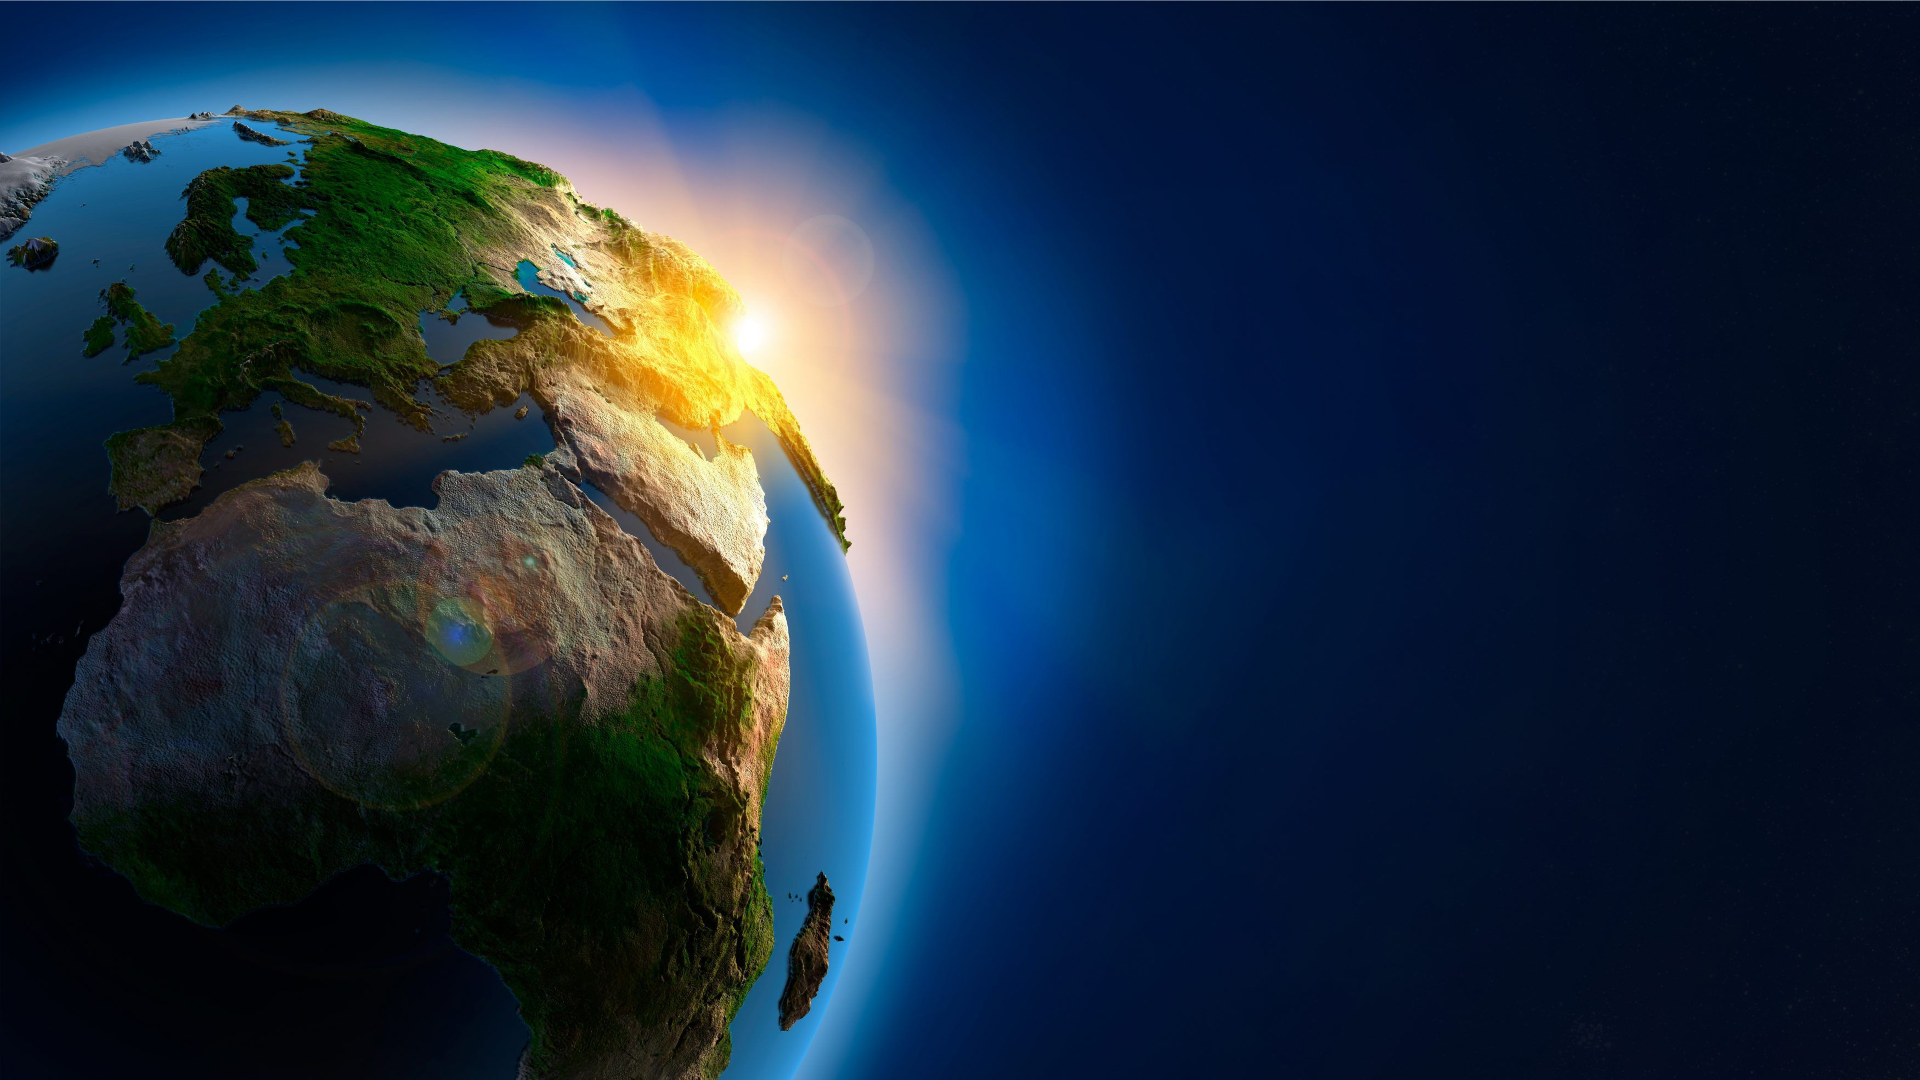
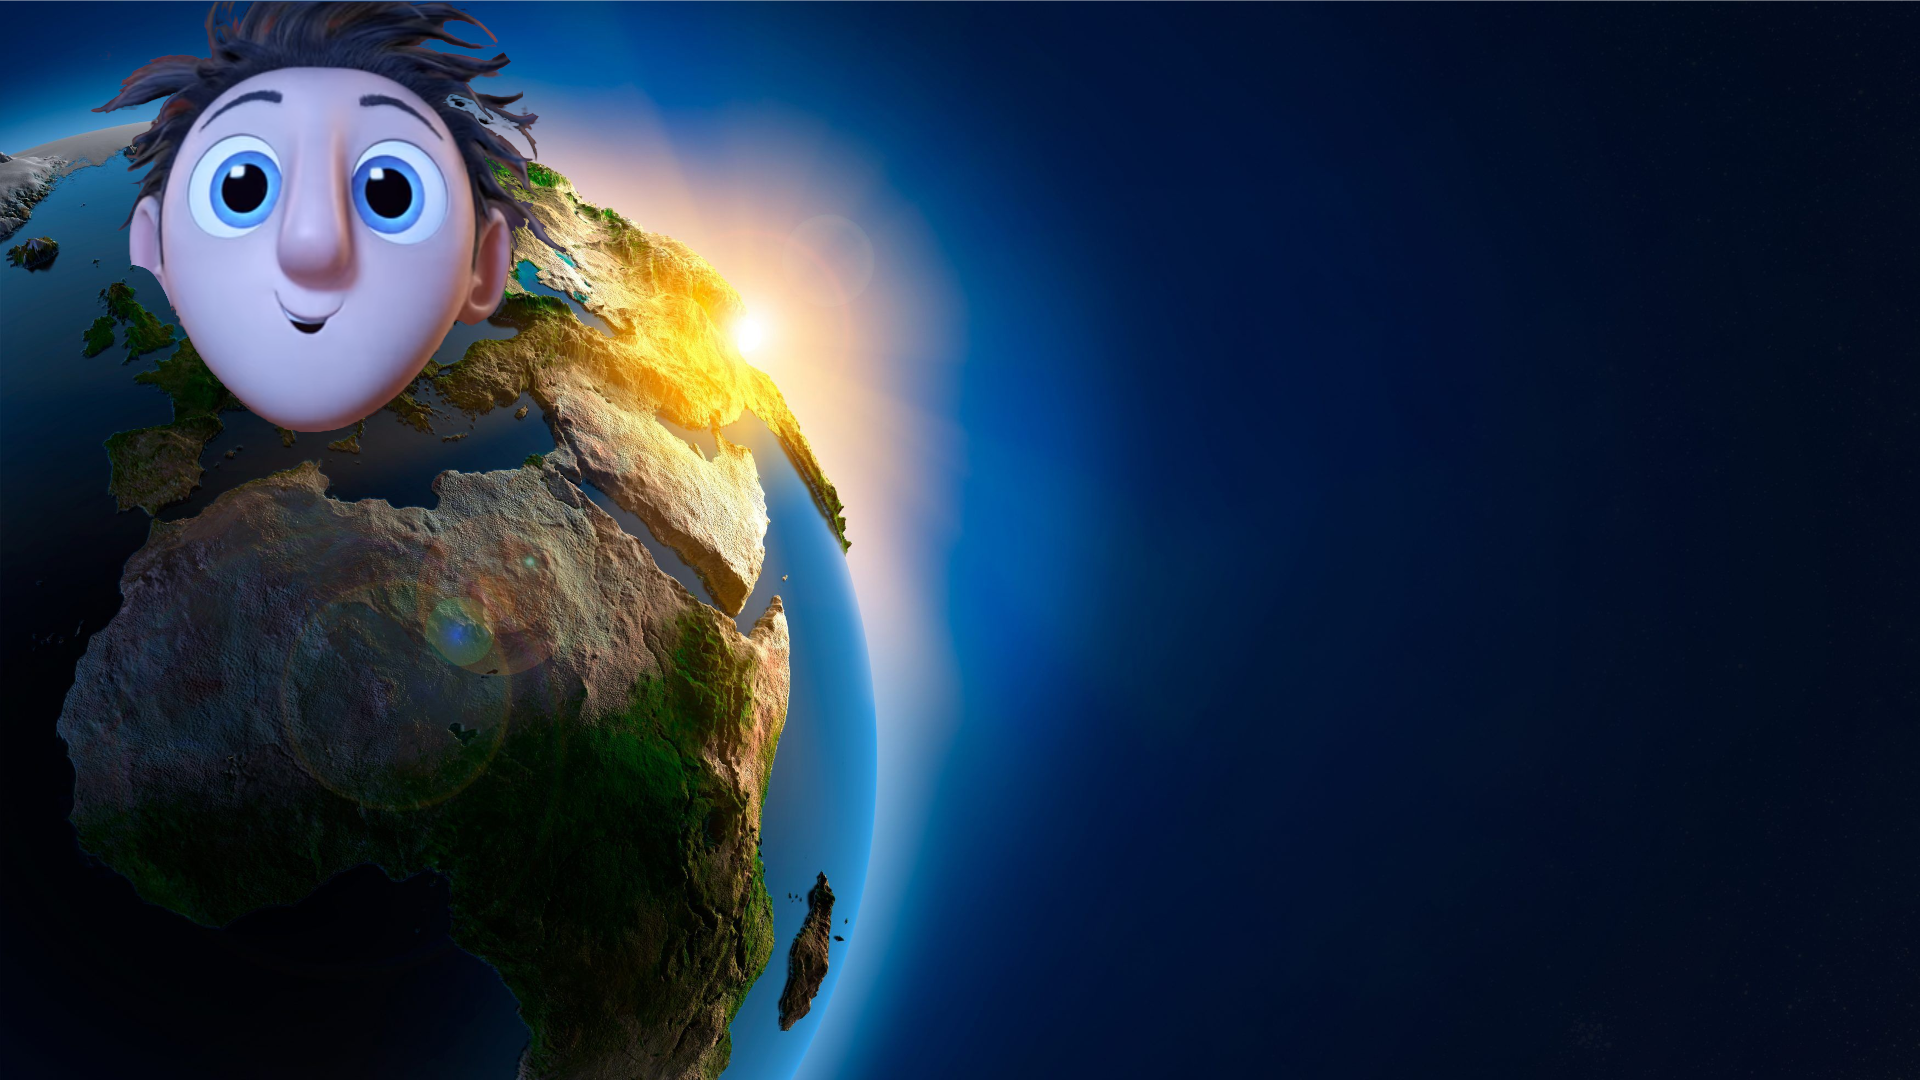
add soundbox area and surpriise

Changed region(s): [[0.0312, 0.0, 0.3125, 0.3972]]

diff --git a/src/interface/check_click_buttons.c b/src/interface/check_click_buttons.c
@@ -8,8 +8,6 @@
 #include "../../include/my.h"
 #include "../../include/struct.h"
 #include "../../include/myworld.h"
-void button_write_filename(beginning_t *begin, spritesheet_t *spritesheet,
-map_t *maps);
 
 bool check_click_one_button(world_t *world, int i)
 {
@@ -20,7 +18,8 @@ bool check_click_one_button(world_t *world, int i)
     button_painter, button_home, button_rotate_360, button_save,
     button_toggle_move, button_toggle_rotate, button_rotate_left,
     button_rotate_right, button_rotate_down, button_rotate_up,
-    button_write_filename, button_cancel_window, button_save_window};
+    button_write_filename, button_cancel_window, button_save_window,
+    button_sound, nothing};
     sfFloatRect collision;
     if (world->spritesheet[i].active) {
         collision = sfSprite_getGlobalBounds(world->spritesheet[i].sprite);

diff --git a/src/interface/init_spritesheets.c b/src/interface/init_spritesheets.c
@@ -47,6 +47,14 @@ void init_spritesheets_toggle(spritesheet_t *spritesheet, beginning_t *begin)
     set_one_sprite("assets/img/interface_world/change_painter.png",
     &spritesheet[S_CHANGE_PAINTER], begin,
     (init_sprite_t){{470 - 280, 50}, {0.1, 0.1}, {0, 0, 541, 541}});
+
+    set_one_sprite("assets/img/sound.png",
+    &spritesheet[S_SOUND], begin, (init_sprite_t){{WIDTH - 120,
+    40}, {0.1, 0.1}, {0, 0, 541, 541}});
+
+    set_one_sprite("assets/img/sound_potentio.png",
+    &spritesheet[S_SOUND_POTENTIO], begin,
+    (init_sprite_t){{WIDTH - 275, 100}, {0.1, 0.1}, {0, 0, 3620, 541}});
 }
 
 void init_spritesheets_rotate(spritesheet_t *spritesheet, beginning_t *begin)

diff --git a/include/myworld.h b/include/myworld.h
@@ -62,6 +62,8 @@ enum sprites {
     S_SAVE_TEXT_BUTTON,
     S_SAVE_CANCEL,
     S_SAVE_SAVE,
+    S_SOUND,
+    S_SOUND_POTENTIO,
     NBR_SPRITE,
 };
 
@@ -128,6 +130,10 @@ map_t *maps);
 void button_cancel_window(beginning_t *begin, spritesheet_t *spritesheet,
 map_t *maps);
 void button_save_window(beginning_t *begin, spritesheet_t *spritesheet,
+map_t *maps);
+void button_write_filename(beginning_t *begin, spritesheet_t *spritesheet,
+map_t *maps);
+void button_sound(beginning_t *begin, spritesheet_t *spritesheet,
 map_t *maps);
 // put menu
 void put_all_spritesheets(beginning_t *begin, spritesheet_t *spritesheet,

diff --git a/src/interface/put_spritesheets.c b/src/interface/put_spritesheets.c
@@ -80,6 +80,9 @@ void toggle_spritesheets_world(beginning_t *begin, spritesheet_t *spritesheet)
             spritesheet[S_SAVE_SAVE].active = true;
         }
     }
+    spritesheet[S_SOUND].active = true;
+    if (begin->screen.soundbox)
+        spritesheet[S_SOUND_POTENTIO].active = true;
 }
 
 void put_all_spritesheets(beginning_t *begin, spritesheet_t *spritesheet,

diff --git a/src/interface/menu/buttons/buttons2.c b/src/interface/menu/buttons/buttons2.c
@@ -23,3 +23,11 @@ void button_largeur(beginning_t *begin, spritesheet_t *spritesheet, map_t *maps)
 {
     begin->text.largeur_b = true;
 }
+
+void button_sound(beginning_t *begin, spritesheet_t *spritesheet, map_t *maps)
+{
+    if (begin->screen.soundbox)
+        begin->screen.soundbox = false;
+    else
+        begin->screen.soundbox = true;
+}

diff --git a/src/myworld.c b/src/myworld.c
@@ -45,7 +45,6 @@ void draw_all(world_t *world)
 
 void big_loop(world_t *world)
 {
-    printf("world = %d\n", world->begin.text.filename_save_b);
     if (world->begin.init_map) {
         play_sound(world->begin.sound.launch_maps, world->begin.sound.volume);
         init_empty_map_with_size(&world->begin, &world->all_events, &world->maps);

diff --git a/include/struct.h b/include/struct.h
@@ -30,6 +30,7 @@ typedef struct screen_s {
     bool create_menu;
     bool load_menu;
     bool world;
+    bool soundbox;
 } screen_t;
 
 typedef struct gui_world_s {
